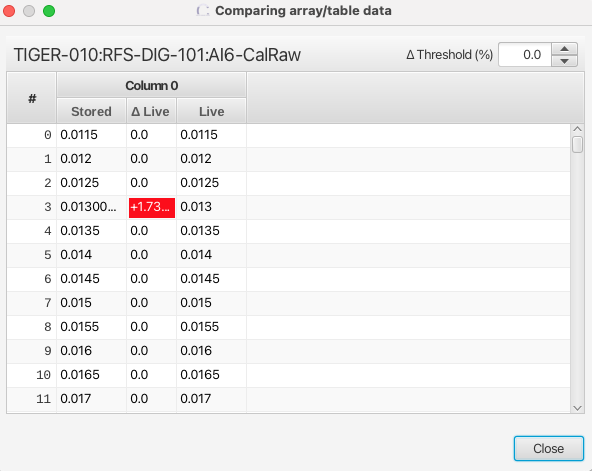
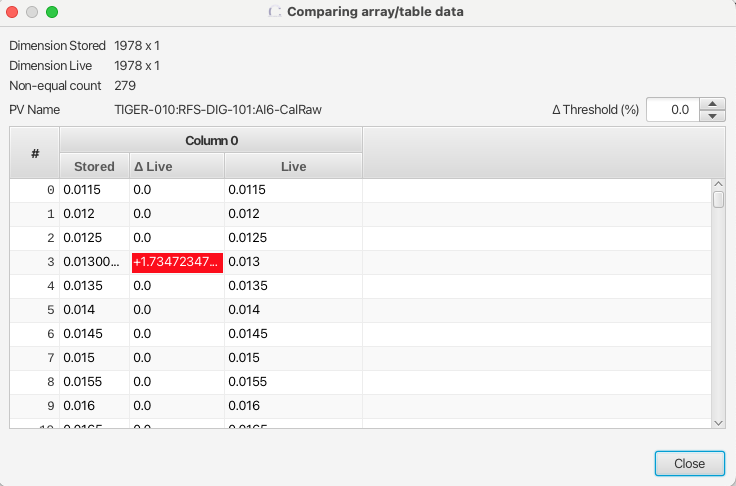
Add dimensions and non-equal count to comparison dialog

diff --git a/app/save-and-restore/app/src/main/java/org/phoebus/applications/saveandrestore/ui/snapshot/compare/TableComparisonViewController.java b/app/save-and-restore/app/src/main/java/org/phoebus/applications/saveandrestore/ui/snapshot/compare/TableComparisonViewController.java
@@ -52,12 +52,14 @@ import org.phoebus.core.vtypes.VDisconnectedData;
 import org.phoebus.core.vtypes.VTypeHelper;
 import org.phoebus.pv.PV;
 import org.phoebus.pv.PVPool;
+import org.phoebus.saveandrestore.util.Utilities;
 import org.phoebus.saveandrestore.util.VNoData;
 
 import java.util.ArrayList;
 import java.util.Comparator;
 import java.util.List;
 import java.util.concurrent.TimeUnit;
+import java.util.concurrent.atomic.AtomicInteger;
 import java.util.logging.Level;
 import java.util.logging.Logger;
 
@@ -94,7 +96,23 @@ public class TableComparisonViewController {
     @FXML
     private Label pvName;
 
+    @SuppressWarnings("unused")
+    @FXML
+    private Label dimensionStored;
+
+    @SuppressWarnings("unused")
+    @FXML
+    private Label dimensionLive;
+
+    @SuppressWarnings("unused")
+    @FXML
+    private Label nonEqualCount;
+
+
     private final StringProperty pvNameProperty = new SimpleStringProperty();
+    private final StringProperty dimensionStoredProperty = new SimpleStringProperty();
+    private final StringProperty dimensionLiveProperty = new SimpleStringProperty();
+    private final StringProperty nonEqualCountProperty = new SimpleStringProperty("0");
 
     private PV pv;
 
@@ -124,6 +142,10 @@ public class TableComparisonViewController {
         thresholdSpinner.setValueFactory(thresholdSpinnerValueFactory);
         thresholdSpinner.getEditor().setAlignment(Pos.CENTER_RIGHT);
         thresholdSpinner.getEditor().textProperty().addListener((a, o, n) -> parseAndUpdateThreshold(n));
+
+        dimensionLive.textProperty().bind(dimensionLiveProperty);
+        dimensionStored.textProperty().bind(dimensionStoredProperty);
+        nonEqualCount.textProperty().bind(nonEqualCountProperty);
     }
 
     /**
@@ -137,74 +159,60 @@ public class TableComparisonViewController {
         pvNameProperty.set(pvName);
 
         int arraySize = VTypeHelper.getArraySize(data);
-        if (data instanceof VNumberArray) {
-            for (int index = 0; index < arraySize; index++) {
-                List<ColumnEntry> columnEntries = new ArrayList<>();
+        for (int index = 0; index < arraySize; index++) {
+            List<ColumnEntry> columnEntries = new ArrayList<>();
+            ColumnEntry columnEntry = null;
+            if (data instanceof VNumberArray) {
                 if (data instanceof VDoubleArray array) {
                     double value = array.getData().getDouble(index);
-                    ColumnEntry columnEntry = new ColumnEntry(VDouble.of(value, array.getAlarm(), array.getTime(), array.getDisplay()));
-                    addRow(index, columnEntries, columnEntry);
+                    columnEntry = new ColumnEntry(VDouble.of(value, array.getAlarm(), array.getTime(), array.getDisplay()));
                 } else if (data instanceof VFloatArray array) {
                     float value = array.getData().getFloat(index);
-                    ColumnEntry columnEntry = new ColumnEntry(VFloat.of(value, array.getAlarm(), array.getTime(), array.getDisplay()));
-                    addRow(index, columnEntries, columnEntry);
+                    columnEntry = new ColumnEntry(VFloat.of(value, array.getAlarm(), array.getTime(), array.getDisplay()));
                 } else if (data instanceof VIntArray array) {
                     int value = array.getData().getInt(index);
-                    ColumnEntry columnEntry = new ColumnEntry(VInt.of(value, array.getAlarm(), array.getTime(), array.getDisplay()));
-                    addRow(index, columnEntries, columnEntry);
+                    columnEntry = new ColumnEntry(VInt.of(value, array.getAlarm(), array.getTime(), array.getDisplay()));
                 } else if (data instanceof VUIntArray array) {
                     int value = array.getData().getInt(index);
-                    ColumnEntry columnEntry = new ColumnEntry(VUInt.of(value, array.getAlarm(), array.getTime(), array.getDisplay()));
-                    addRow(index, columnEntries, columnEntry);
+                    columnEntry = new ColumnEntry(VUInt.of(value, array.getAlarm(), array.getTime(), array.getDisplay()));
                 } else if (data instanceof VLongArray array) {
                     long value = array.getData().getLong(index);
-                    ColumnEntry columnEntry = new ColumnEntry(VLong.of(value, array.getAlarm(), array.getTime(), array.getDisplay()));
-                    addRow(index, columnEntries, columnEntry);
+                    columnEntry = new ColumnEntry(VLong.of(value, array.getAlarm(), array.getTime(), array.getDisplay()));
                 } else if (data instanceof VULongArray array) {
                     long value = array.getData().getLong(index);
-                    ColumnEntry columnEntry = new ColumnEntry(VULong.of(value, array.getAlarm(), array.getTime(), array.getDisplay()));
-                    addRow(index, columnEntries, columnEntry);
+                    columnEntry = new ColumnEntry(VULong.of(value, array.getAlarm(), array.getTime(), array.getDisplay()));
                 } else if (data instanceof VShortArray array) {
                     short value = array.getData().getShort(index);
-                    ColumnEntry columnEntry = new ColumnEntry(VShort.of(value, array.getAlarm(), array.getTime(), array.getDisplay()));
-                    addRow(index, columnEntries, columnEntry);
+                    columnEntry = new ColumnEntry(VShort.of(value, array.getAlarm(), array.getTime(), array.getDisplay()));
                 } else if (data instanceof VUShortArray array) {
                     short value = array.getData().getShort(index);
-                    ColumnEntry columnEntry = new ColumnEntry(VUShort.of(value, array.getAlarm(), array.getTime(), array.getDisplay()));
-                    addRow(index, columnEntries, columnEntry);
+                    columnEntry = new ColumnEntry(VUShort.of(value, array.getAlarm(), array.getTime(), array.getDisplay()));
                 } else if (data instanceof VByteArray array) {
                     byte value = array.getData().getByte(index);
-                    ColumnEntry columnEntry = new ColumnEntry(VByte.of(value, array.getAlarm(), array.getTime(), array.getDisplay()));
-                    addRow(index, columnEntries, columnEntry);
+                    columnEntry = new ColumnEntry(VByte.of(value, array.getAlarm(), array.getTime(), array.getDisplay()));
                 } else if (data instanceof VUByteArray array) {
                     byte value = array.getData().getByte(index);
-                    ColumnEntry columnEntry = new ColumnEntry(VUByte.of(value, array.getAlarm(), array.getTime(), array.getDisplay()));
-                    addRow(index, columnEntries, columnEntry);
+                    columnEntry = new ColumnEntry(VUByte.of(value, array.getAlarm(), array.getTime(), array.getDisplay()));
                 }
             }
-        } else if (data instanceof VBooleanArray array) {
-            ListBoolean listBoolean = array.getData();
-            for (int index = 0; index < listBoolean.size(); index++) {
-                List<ColumnEntry> columnEntries = new ArrayList<>();
+            else if (data instanceof VBooleanArray array) {
+                ListBoolean listBoolean = array.getData();
                 boolean value = listBoolean.getBoolean(index);
-                ColumnEntry columnEntry = new ColumnEntry(VBoolean.of(value, array.getAlarm(), array.getTime()));
-                addRow(index, columnEntries, columnEntry);
+                columnEntry = new ColumnEntry(VBoolean.of(value, array.getAlarm(), array.getTime()));
+            } else if (data instanceof VEnumArray array) {
+                List<String> enumValues = array.getData();
+                columnEntry = new ColumnEntry(VString.of(enumValues.get(index), array.getAlarm(), array.getTime()));
+            } else if (data instanceof VStringArray array) {
+                List<String> stringValues = array.getData();
+                columnEntry = new ColumnEntry(VString.of(stringValues.get(index), array.getAlarm(), array.getTime()));
             }
-        } else if (data instanceof VEnumArray array) {
-            List<String> enumValues = array.getData();
-            for (int index = 0; index < enumValues.size(); index++) {
-                List<ColumnEntry> columnEntries = new ArrayList<>();
-                ColumnEntry columnEntry = new ColumnEntry(VString.of(enumValues.get(index), array.getAlarm(), array.getTime()));
-                addRow(index, columnEntries, columnEntry);
-            }
-        } else if (data instanceof VStringArray array) {
-            List<String> stringValues = array.getData();
-            for (int index = 0; index < stringValues.size(); index++) {
-                List<ColumnEntry> columnEntries = new ArrayList<>();
-                ColumnEntry columnEntry = new ColumnEntry(VString.of(stringValues.get(index), array.getAlarm(), array.getTime()));
+            if(columnEntry != null){
                 addRow(index, columnEntries, columnEntry);
             }
         }
+
+        // Hard coded column count until we support VTable
+        dimensionStoredProperty.set(arraySize + " x 1");
         connect();
     }
 
@@ -299,103 +307,60 @@ public class TableComparisonViewController {
             // Live data may have more elements than stored data
             if (liveDataArraySize > comparisonTable.getItems().size()) {
                 List<ColumnEntry> columnEntries = new ArrayList<>();
-                if (liveData instanceof VNumberArray) {
-                    if (liveData instanceof VDoubleArray array) {
-                        for (int index = comparisonTable.getItems().size(); index < liveDataArraySize; index++) {
+                for (int index = comparisonTable.getItems().size(); index < liveDataArraySize; index++) {
+                    ColumnEntry columnEntry = new ColumnEntry(VNoData.INSTANCE);
+                    if (liveData instanceof VNumberArray) {
+                        if (liveData instanceof VDoubleArray array) {
                             double value = array.getData().getDouble(index);
-                            ColumnEntry columnEntry = new ColumnEntry(VNoData.INSTANCE);
                             columnEntry.setLiveVal(VDouble.of(value, array.getAlarm(), array.getTime(), array.getDisplay()));
-                            addRow(index, columnEntries, columnEntry);
-                        }
-                    } else if (liveData instanceof VFloatArray array) {
-                        for (int index = comparisonTable.getItems().size(); index < liveDataArraySize; index++) {
+                        } else if (liveData instanceof VFloatArray array) {
                             float value = array.getData().getFloat(index);
-                            ColumnEntry columnEntry = new ColumnEntry(VNoData.INSTANCE);
                             columnEntry.setLiveVal(VFloat.of(value, array.getAlarm(), array.getTime(), array.getDisplay()));
-                            addRow(index, columnEntries, columnEntry);
-                        }
-                    } else if (liveData instanceof VIntArray array) {
-                        for (int index = comparisonTable.getItems().size(); index < liveDataArraySize; index++) {
+                        } else if (liveData instanceof VIntArray array) {
                             int value = array.getData().getInt(index);
-                            ColumnEntry columnEntry = new ColumnEntry(VNoData.INSTANCE);
                             columnEntry.setLiveVal(VInt.of(value, array.getAlarm(), array.getTime(), array.getDisplay()));
-                            addRow(index, columnEntries, columnEntry);
-                        }
-                    } else if (liveData instanceof VUIntArray array) {
-                        for (int index = comparisonTable.getItems().size(); index < liveDataArraySize; index++) {
+                        } else if (liveData instanceof VUIntArray array) {
                             int value = array.getData().getInt(index);
-                            ColumnEntry columnEntry = new ColumnEntry(VNoData.INSTANCE);
                             columnEntry.setLiveVal(VUInt.of(value, array.getAlarm(), array.getTime(), array.getDisplay()));
-                            addRow(index, columnEntries, columnEntry);
-                        }
-                    } else if (liveData instanceof VLongArray array) {
-                        for (int index = comparisonTable.getItems().size(); index < liveDataArraySize; index++) {
+                        } else if (liveData instanceof VLongArray array) {
                             long value = array.getData().getLong(index);
-                            ColumnEntry columnEntry = new ColumnEntry(VNoData.INSTANCE);
                             columnEntry.setLiveVal(VLong.of(value, array.getAlarm(), array.getTime(), array.getDisplay()));
-                            addRow(index, columnEntries, columnEntry);
-                        }
-                    } else if (liveData instanceof VULongArray array) {
-                        for (int index = comparisonTable.getItems().size(); index < liveDataArraySize; index++) {
+                        } else if (liveData instanceof VULongArray array) {
                             long value = array.getData().getLong(index);
-                            ColumnEntry columnEntry = new ColumnEntry(VNoData.INSTANCE);
                             columnEntry.setLiveVal(VULong.of(value, array.getAlarm(), array.getTime(), array.getDisplay()));
-                            addRow(index, columnEntries, columnEntry);
-                        }
-                    } else if (liveData instanceof VShortArray array) {
-                        for (int index = comparisonTable.getItems().size(); index < liveDataArraySize; index++) {
+                        } else if (liveData instanceof VShortArray array) {
                             short value = array.getData().getShort(index);
-                            ColumnEntry columnEntry = new ColumnEntry(VNoData.INSTANCE);
                             columnEntry.setLiveVal(VShort.of(value, array.getAlarm(), array.getTime(), array.getDisplay()));
-                            addRow(index, columnEntries, columnEntry);
-                        }
-                    } else if (liveData instanceof VUShortArray array) {
-                        for (int index = comparisonTable.getItems().size(); index < liveDataArraySize; index++) {
+                        } else if (liveData instanceof VUShortArray array) {
                             short value = array.getData().getShort(index);
-                            ColumnEntry columnEntry = new ColumnEntry(VNoData.INSTANCE);
                             columnEntry.setLiveVal(VUShort.of(value, array.getAlarm(), array.getTime(), array.getDisplay()));
-                            addRow(index, columnEntries, columnEntry);
-                        }
-                    } else if (liveData instanceof VByteArray array) {
-                        for (int index = comparisonTable.getItems().size(); index < liveDataArraySize; index++) {
+                        } else if (liveData instanceof VByteArray array) {
                             byte value = array.getData().getByte(index);
-                            ColumnEntry columnEntry = new ColumnEntry(VNoData.INSTANCE);
                             columnEntry.setLiveVal(VByte.of(value, array.getAlarm(), array.getTime(), array.getDisplay()));
-                            addRow(index, columnEntries, columnEntry);
-                        }
-                    } else if (liveData instanceof VUByteArray array) {
-                        for (int index = comparisonTable.getItems().size(); index < liveDataArraySize; index++) {
+                        } else if (liveData instanceof VUByteArray array) {
                             byte value = array.getData().getByte(index);
-                            ColumnEntry columnEntry = new ColumnEntry(VNoData.INSTANCE);
                             columnEntry.setLiveVal(VUByte.of(value, array.getAlarm(), array.getTime(), array.getDisplay()));
-                            addRow(index, columnEntries, columnEntry);
                         }
                     }
-                } else if (liveData instanceof VBooleanArray array) {
-                    ListBoolean listBoolean = array.getData();
-                    for (int i = 0; i < listBoolean.size(); i++) {
-                        boolean value = listBoolean.getBoolean(i);
-                        ColumnEntry columnEntry = new ColumnEntry(VNoData.INSTANCE);
+                    else if (liveData instanceof VBooleanArray array) {
+                        ListBoolean listBoolean = array.getData();
+                        boolean value = listBoolean.getBoolean(index);
                         columnEntry.setLiveVal(VBoolean.of(value, array.getAlarm(), array.getTime()));
-                        addRow(i, columnEntries, columnEntry);
+                    } else if (liveData instanceof VEnumArray array) {
+                        List<String> enumValues = array.getData();
+                        columnEntry.setLiveVal(VString.of(enumValues.get(index), array.getAlarm(), array.getTime()));
+                    } else if (liveData instanceof VStringArray array) {
+                        List<String> stringValues = array.getData();
+                        columnEntry.setLiveVal(VString.of(stringValues.get(index), array.getAlarm(), array.getTime()));
                     }
-                } else if (liveData instanceof VEnumArray array) {
-                    List<String> enumValues = array.getData();
-                    for (int i = 0; i < enumValues.size(); i++) {
-                        ColumnEntry columnEntry = new ColumnEntry(VNoData.INSTANCE);
-                        columnEntry.setLiveVal(VString.of(enumValues.get(i), array.getAlarm(), array.getTime()));
-                        addRow(i, columnEntries, columnEntry);
-                    }
-                } else if (liveData instanceof VStringArray array) {
-                    List<String> stringValues = array.getData();
-                    for (int i = 0; i < stringValues.size(); i++) {
-                        ColumnEntry columnEntry = new ColumnEntry(VNoData.INSTANCE);
-                        columnEntry.setLiveVal(VString.of(stringValues.get(i), array.getAlarm(), array.getTime()));
-                        addRow(i, columnEntries, columnEntry);
-                    }
+                    addRow(index, columnEntries, columnEntry);
                 }
             }
+            // Hard coded column count until we support VTable
+            dimensionLiveProperty.set(liveDataArraySize + " x 1");
+            computeNonEqualCount();
         }
+
     }
 
     private void parseAndUpdateThreshold(String value) {
@@ -418,8 +383,24 @@ public class TableComparisonViewController {
      */
     private void updateThreshold(double threshold) {
         double ratio = threshold / 100;
+
         comparisonTable.getItems().forEach(comparisonData -> {
             comparisonData.setThreshold(ratio);
         });
+
+        computeNonEqualCount();
+    }
+
+    private void computeNonEqualCount(){
+        AtomicInteger nonEqualCount = new AtomicInteger(0);
+        comparisonTable.getItems().forEach(comparisonData -> {
+            comparisonData.getColumnEntries().forEach(columnEntry -> {
+                if(!Utilities.areValuesEqual(columnEntry.liveValueProperty().get(), columnEntry.storedValueProperty().get(), columnEntry.getDelta().get().threshold)){
+                    nonEqualCount.incrementAndGet();
+                }
+            });
+        });
+
+        nonEqualCountProperty.set(nonEqualCount.toString());
     }
 }

diff --git a/app/save-and-restore/app/src/test/java/org/phoebus/applications/saveandrestore/ui/snapshot/compare/ComparisonDialogDemo.java b/app/save-and-restore/app/src/test/java/org/phoebus/applications/saveandrestore/ui/snapshot/compare/ComparisonDialogDemo.java
@@ -26,11 +26,11 @@ public class ComparisonDialogDemo extends ApplicationWrapper {
     public void start(Stage primaryStage) {
 
         VDoubleArray vDoubleArray =
-                VDoubleArray.of(ArrayDouble.of(1, 2, 3),
+                VDoubleArray.of(ArrayDouble.of(1, 2, 3, 4),
                         Alarm.none(),
                         Time.now(), Display.none());
         ComparisonDialog comparisonDialog =
-                new ComparisonDialog(vDoubleArray, "loc://x(3, 2, 1, 1)");
+                new ComparisonDialog(vDoubleArray, "loc://x(3, 2, 1)");
         comparisonDialog.show();
     }
 }
